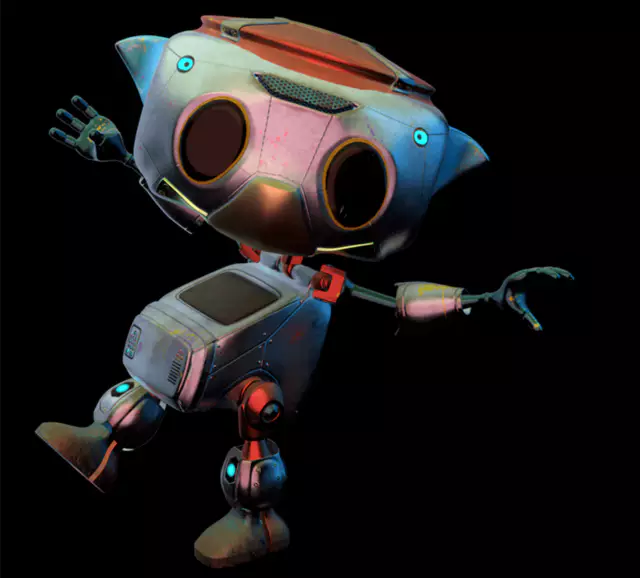
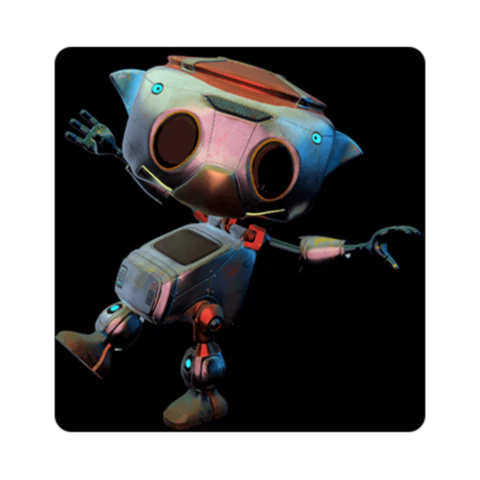
images config

diff --git a/index.html b/index.html
@@ -45,13 +45,13 @@
                     <div class="section">
                         <div class="card">
                             <a href="CS50 Game.html">
-                                <img src="Card Iamge/JS_Game.webp" alt="JavaScript Game" loading="lazy">
+                                <img src="Card Iamge/JS_Game.webp" alt="JavaScript Game" width="640" height="258" loading="lazy">
                                 <p> A simple generic quest model in JavaScript</p>
                             </a>
                         </div>
                         <div class="card">
                             <a href="Maze.html">
-                                <img src="Card Iamge/maze.png" alt="JavaScript Game" loading="lazy">
+                                <img src="Card Iamge/maze.png" alt="JavaScript Game" width="640" height="267" loading="lazy">
                                 <p> Maze generator</p>
                             </a>
                         </div>
@@ -68,19 +68,19 @@
                     <div class="section">
                         <div class="card">
                             <a href="Texture Portfolio/sd_wood.html">
-                                <img src="Texture Portfolio/Wood tile/Wood render 2.webp" alt="Substance designer" loading="lazy">
+                                <img src="Texture Portfolio/Wood tile/Wood render 2.webp" width="595" height="480" alt="Substance designer" loading="lazy">
                                 <p> Stylized wood texture, fully procedural, with substance designer</p>
                             </a>
                         </div>
                         <div class="card">
                             <a href="Texture Portfolio/sd_trim_sheet.html">
-                                <img src="Texture Portfolio/Trim Sheet/Trim sheet SD 2.webp" alt="Substance designer" loading="lazy">
+                                <img src="Texture Portfolio/Trim Sheet/Trim sheet SD 2.webp" width="640" height="436" alt="Substance designer" loading="lazy">
                                 <p> Stylized trim sheet texture with substance designer</p>
                             </a>
                         </div>
                         <div class="card">
                             <a href="Texture Portfolio/sd_wip.html">
-                                <img src="Texture Portfolio/Sci fi/Sci fi.webp" alt="Substance designer" loading="lazy">
+                                <img src="Texture Portfolio/Sci fi/Sci fi.webp" width="640" height="436" alt="Substance designer" loading="lazy">
                                 <p> Other experimental projects with substance designer</p>
                             </a>
                         </div>
@@ -97,19 +97,19 @@
                     <div class="section"> 
                         <div class="card">
                             <a href="3D models/Robot/Robot.html">
-                                <img src="3D models/Robot/Robot 2.webp" alt="Substance designer" loading="lazy">
+                                <img src="3D models/Robot/Robot 2.webp" width="480" height="480" alt="Substance designer" loading="lazy">
                                 <p> Artronic</p>
                             </a>
                         </div>
                         <div class="card">
                             <a href="3D models/Steam Deck/steam_deck.html">
-                                <img src="3D models/Steam Deck/Steam deck cover.webp" alt="Substance designer" loading="lazy">
+                                <img src="3D models/Steam Deck/Steam deck cover.webp" width="640" height="359" alt="Substance designer" loading="lazy">
                                 <p> Steam Deck (product excersize)</p>
                             </a>
                         </div>
                         <div class="card">
                             <a href="3D models/miscellaneous/Miscellaneous.html">
-                                <img src="3D models/miscellaneous/misc cover.webp" alt="Substance designer" loading="lazy">
+                                <img src="3D models/miscellaneous/misc cover.webp" width="640" height="436" alt="Substance designer" loading="lazy">
                                 <p> Other experiments and excersize</p>
                             </a>
                         </div>

diff --git a/static/homepage.css b/static/homepage.css
@@ -221,6 +221,9 @@ main .shape .section::-webkit-scrollbar {
 }
 .card > a > img {
     width: 50%;
+    max-width: 400px;
+    height: auto;
+    max-height: 400px;
     border-radius: 15px;
 }
 .footer {
@@ -365,7 +368,6 @@ vertical-align: -0.125em;
     }
 
     .project > h2{
-        /* align-items: center; */
         font-size: 16px;
         max-height: 100px;
     }
